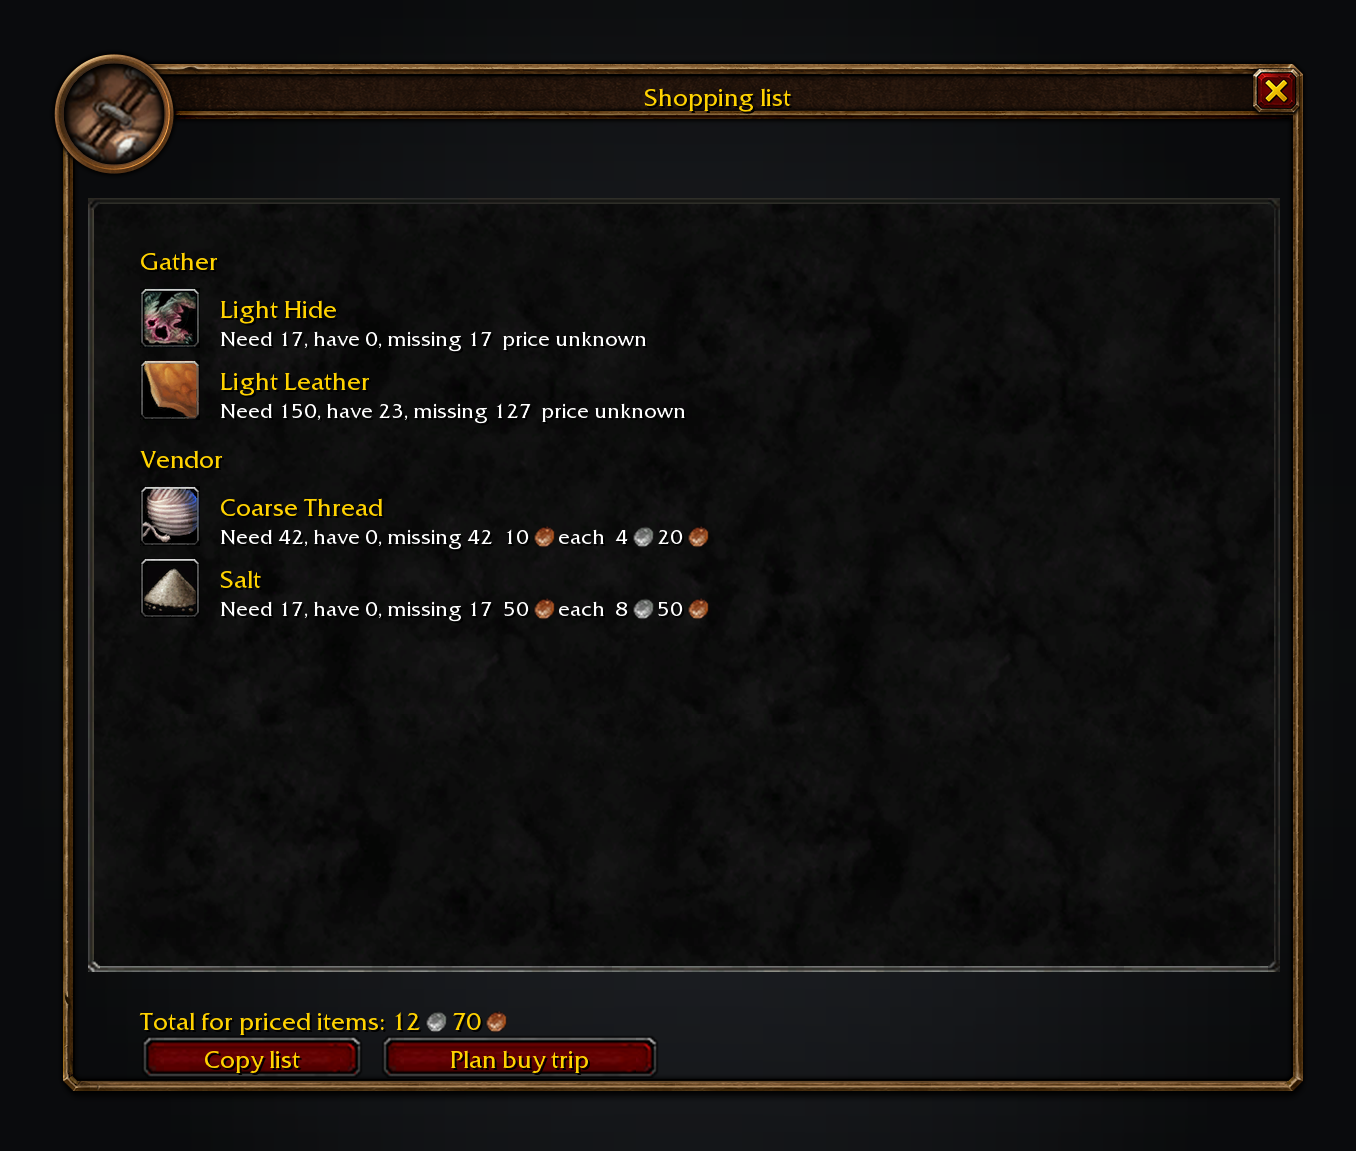
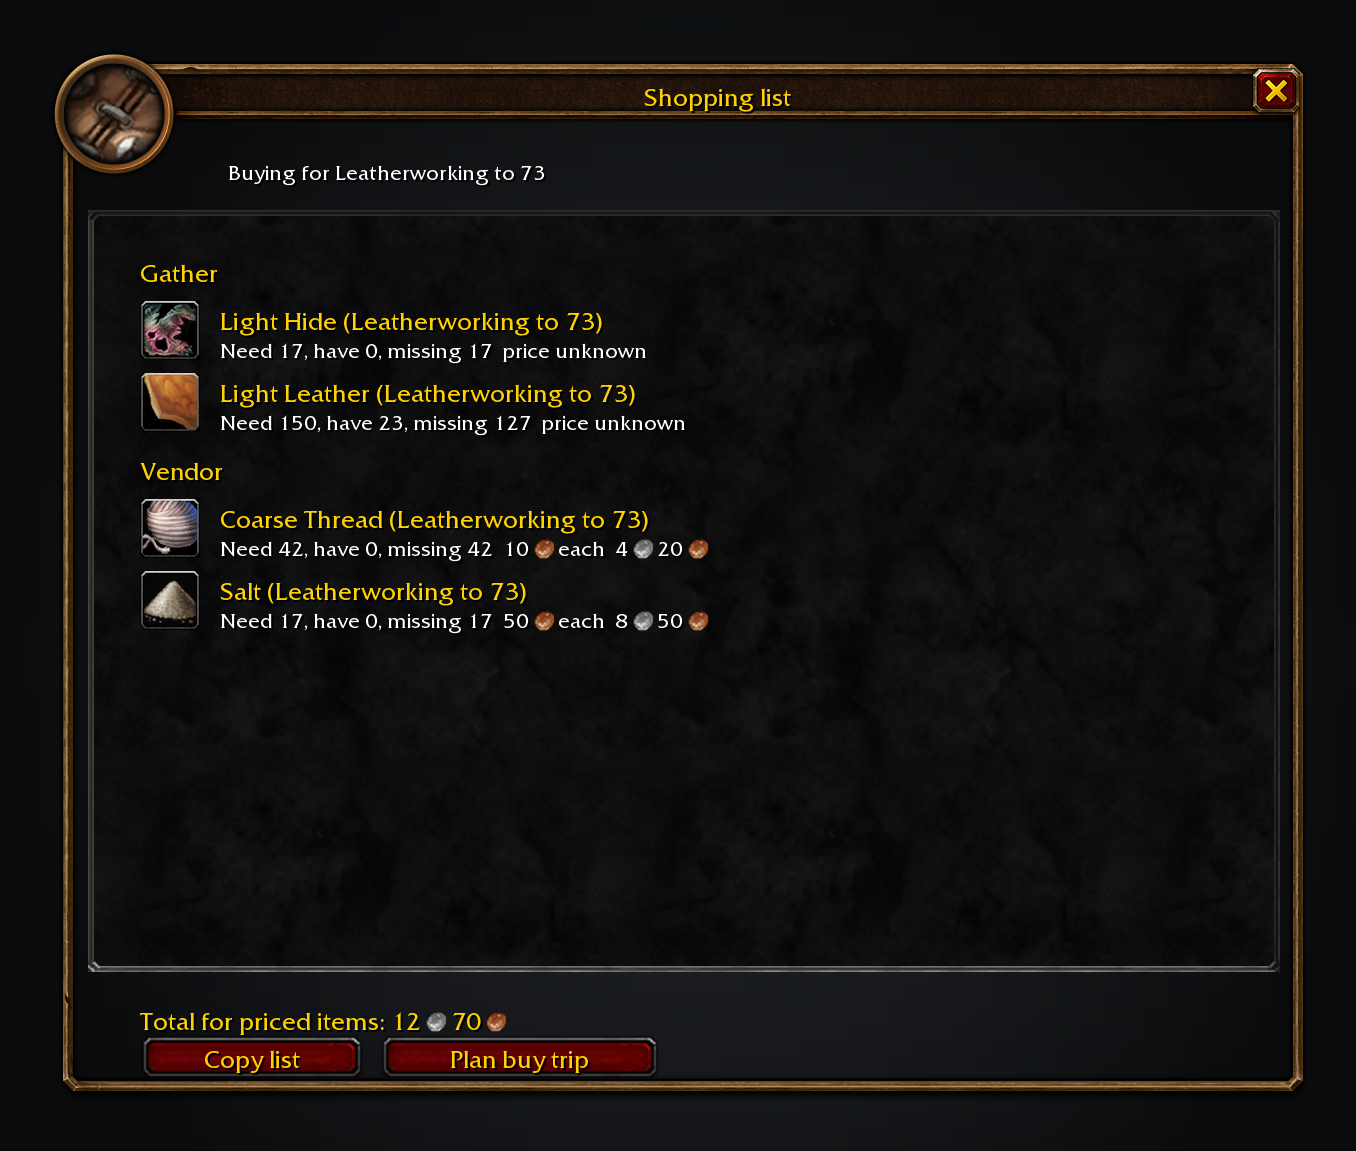
test: render the shopping list with its skill target (#232)

diff --git a/tools/screenshots.py b/tools/screenshots.py
@@ -1026,7 +1026,8 @@ end
 local shopping = {}
 for _, profession in ipairs(ns.ShoppingList()) do
 	local out = {
-		profession = profession.profession, total = profession.total, unpriced = profession.unpriced, items = {},
+		profession = profession.profession, target = profession.target,
+		total = profession.total, unpriced = profession.unpriced, items = {},
 	}
 	for _, row in ipairs(profession.items) do
 		if row.missing > 0 then
@@ -1721,22 +1722,26 @@ def shopping_list_scene(ui, scene_data):
     canvas = ui.canvas(w + margin * 2, h + margin * 2)
     x, y = margin, margin
     portrait_frame_art(canvas, x, y, w, h, 136247, "Shopping list")
-    inset_frame(canvas, x + 12, y + 64, w - 24, h - 124)
-    left, top = x + 30, y + 82
     shopping = scene_data["shopping"]
+    # GameFontHighlightSmall under the title, right of the portrait: every plan the window buys for.
+    plans = ", ".join(f"{profession['profession']} to {profession['target']}" for profession in shopping)
+    canvas.text(x + 82, y + 36, f"Buying for {plans}" if plans else "", F_SMALL, box_height=28)
+    inset_frame(canvas, x + 12, y + 70, w - 24, h - 130)
+    left, top = x + 30, y + 88
     total = sum(profession["total"] for profession in shopping)
     unpriced = sum(profession["unpriced"] for profession in shopping)
     sources = (("gather", "Gather"), ("vendor", "Vendor"), ("auction", "Auction house"), ("unknown", "Unknown"))
     for source, title in sources:
-        rows = [row for profession in shopping for row in profession["items"] if row["source"] == source]
+        rows = [(p, row) for p in shopping for row in p["items"] if row["source"] == source]
         if not rows:
             continue
         canvas.text(left + 8, top, title, F_NORMAL, box_height=24)
         top += 27
-        for row in rows[:2]:
+        for profession, row in rows[:2]:
             item = ui.item(row["itemID"])
             canvas.draw(ui.texture(item.icon), left + 8, top, 30, 30)
-            canvas.text(left + 48, top, item.name, F_NORMAL, box_height=18)
+            name = f"{item.name} ({profession['profession']} to {profession['target']})"
+            canvas.text(left + 48, top, name, F_NORMAL, box_height=18)
             detail = f"Need {row['need']}, have {row['have']}, missing {row['missing']}"
             if row.get("price"):
                 detail += f"  {money(row['price'])} each"
